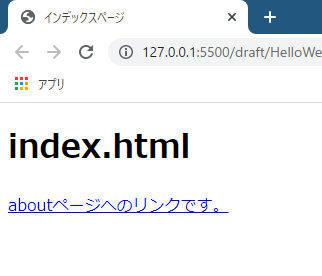
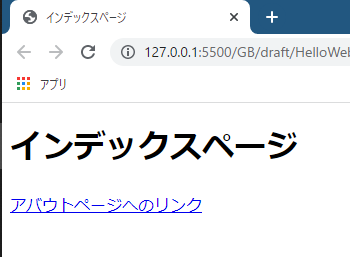
📝 Update Article

diff --git a/content/draft/HelloWeb/07/pages/about.html b/content/draft/HelloWeb/07/pages/about.html
@@ -3,10 +3,10 @@
 <head>
   <meta charset="UTF-8">
   <meta name="viewport" content="width=device-width, initial-scale=1.0">
-  <title>インデックスページ</title>
+  <title>アバウトページ</title>
 </head>
 <body>
-  <h1>インデックスページ</h1>
-  <a href="./pages/about.html">アバウトページへのリンク</a>
+  <h1>アバウトページ</h1>
+  <a href="./../index.html">インデックスページへのリンク</a>
 </body>
 </html>

diff --git a/content/draft/GitAdvance/x/index.md b/content/draft/GitAdvance/x/index.md
@@ -172,6 +172,8 @@ https://github.com/git/git/blob/v2.12.0/Documentation/technical/index-format.txt
 
 ## 参考
 
+[Git - gitrepository-layout Documentation](https://git-scm.com/docs/gitrepository-layout)
+
 [](https://github.blog/jp/2021-01-06-commits-are-snapshots-not-diffs/)
 
 [Git - 配管（Plumbing）と磁器（Porcelain）](https://git-scm.com/book/ja/v2/Git%E3%81%AE%E5%86%85%E5%81%B4-%E9%85%8D%E7%AE%A1%EF%BC%88Plumbing%EF%BC%89%E3%81%A8%E7%A3%81%E5%99%A8%EF%BC%88Porcelain%EF%BC%89)
@@ -190,9 +192,13 @@ https://github.com/git/git/blob/v2.12.0/Documentation/technical/index-format.txt
 
 https://zenn.dev/st43/articles/9f86a107a57aba
 
+[たぶんもう怖くないGit ~Git内部の仕組み~ - Qiita](https://qiita.com/marchin_1989/items/2ec01553e907f3a9e6bb)
+
 https://mrkmyki.com/%E3%80%90%E5%9B%B3%E8%A7%A3%E3%80%91git%E3%81%AE%E3%82%A4%E3%83%B3%E3%83%87%E3%83%83%E3%82%AF%E3%82%B9%E3%81%AE%E8%AA%AC%E6%98%8E%E3%81%BE%E3%81%A8%E3%82%81
 
 https://qiita.com/DQNEO/items/0233a680b0f9471db9ee
+
+[Git for Computer Scientists](https://eagain.net/articles/git-for-computer-scientists/)
 
 https://www.yoheim.net/blog.php?q=20140301
 

diff --git a/content/draft/Others/02/index.md b/content/draft/Others/02/index.md
@@ -1,0 +1,16 @@
+---
+title: "2021年のReact本の中で何がお勧めか"
+postdate: "2021-12-31"
+update: "2021-12-31"
+seriesName: "Others"
+seriesSlug: "その他"
+description: ""
+tags: ["React", "書籍"]
+---
+
+# Gatsbyを使ってWebサイトを構築する方法
+
+2021年は沢山のReactの書籍が発売されました。日本で言うとVue.js一辺倒だったイメージですが、
+j
+
+入門書としては神懸かっています。

diff --git a/content/blog/Others/01/index.md b/content/blog/Others/01/index.md
@@ -2,8 +2,8 @@
 title: "プロキシ環境でKali Linuxを使う"
 postdate: "2021-12-13"
 update: "2021-12-14"
-seriesName: "メモ"
-seriesSlug: "Memo"
+seriesName: "その他"
+seriesSlug: "Others"
 description: "プロキシ環境でKali Linux(WSL2)を使うための設定項目をメモします。"
 tags: ["Kali Linux", "WSL2"]
 ---
